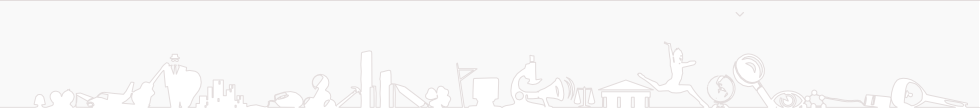
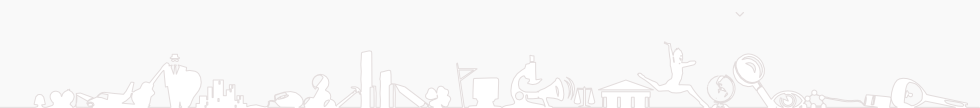
Removed all borders around main container, add expansive background.
Removed the top border, which was part of the header image. Also added a
background which is wider than 1000px to bring some smoothy roundness to the design.

Changed region(s): [[0.0, 0.0, 1.0, 0.0278]]

diff --git a/src/ututi/public/stylesheets/style.css b/src/ututi/public/stylesheets/style.css
@@ -8,7 +8,7 @@ html, body {
 body {
   font-size: 87.5%;
   font-family: 'Trebuchet MS', Helvetica, sans-serif;
-  background: white;
+  background: white url("../images/block_header_background.png") center 5px no-repeat;
   padding-bottom: 5px;
 }
 
